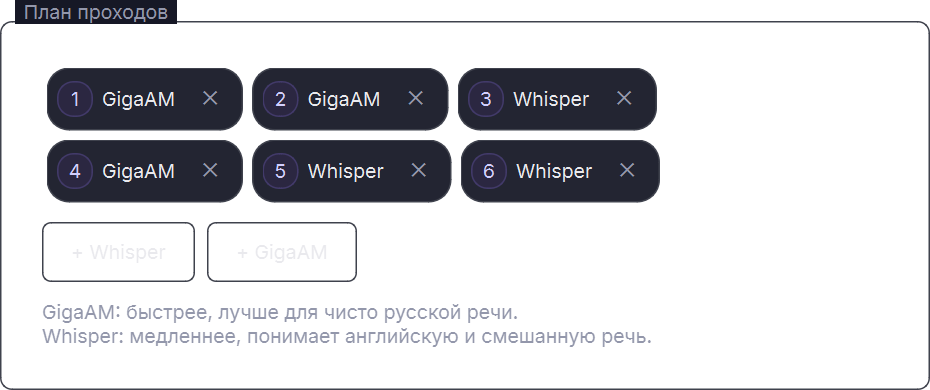
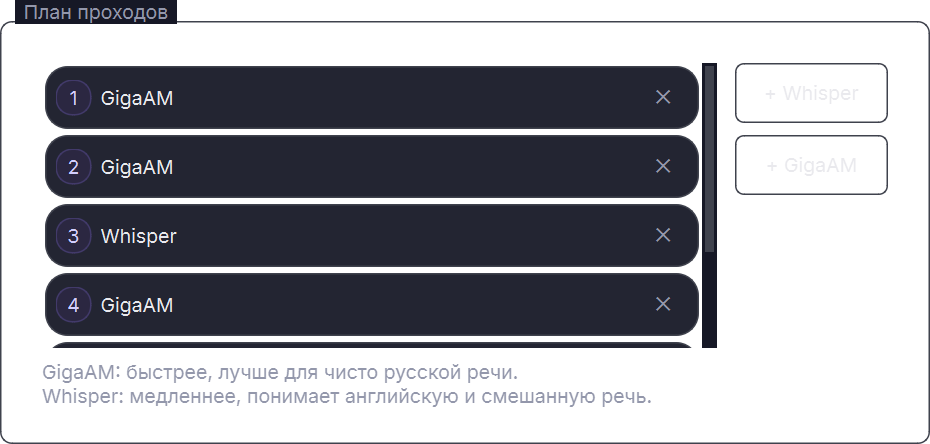
Plan passes as a vertical column; size model rows to their buttons
Pass rows are full-width chips stacked vertically (one per row, drag
to reorder, X at the right edge) with the add buttons in a column on
the right — scrolls past four rows. Models: Qt ignores cell-widget
heights when sizing rows, so rows are now sized explicitly to the
button height; all rows render fully.

diff --git a/wordmute_app/ui/plan_widget.py b/wordmute_app/ui/plan_widget.py
@@ -40,12 +40,13 @@ class _Chip(QFrame):
         self.setProperty("passChip", True)
         self.setToolTip(tr(ENGINE_TIPS[engine]))
         layout = QHBoxLayout(self)
-        layout.setContentsMargins(3, 3, 4, 3)
+        layout.setContentsMargins(3, 3, 6, 3)
         layout.setSpacing(6)
         badge = QLabel(str(number))
         badge.setProperty("stepNumber", True)
         layout.addWidget(badge)
         layout.addWidget(QLabel(ENGINE_LABELS[engine]))
+        layout.addStretch()  # full-row chip: ✕ sits at the right edge
         remove = QToolButton()
         remove.setProperty("chipRemove", True)
         remove.setText("✕")
@@ -68,21 +69,20 @@ class _ChipsList(QListWidget):
 
 class PassPlanWidget(QGroupBox):
     changed = Signal()
-    MAX_CHIP_ROWS = 3  # taller plans scroll vertically
+    MAX_VISIBLE_ROWS = 4  # taller plans scroll vertically
 
     def __init__(self, parent=None):
         super().__init__(tr("Pass plan"), parent)
         layout = QVBoxLayout(self)
         layout.setSpacing(8)
 
-        # chips take the full group width and wrap onto more lines;
-        # the + buttons sit on their own row below (design feedback)
+        # one pass per row (a vertical column, like the old plain list),
+        # add buttons in their own column on the right
+        row = QHBoxLayout()
+        row.setSpacing(12)
         self.chips = _ChipsList(self._update_height)
         self.chips.setObjectName("pass_chips")
-        self.chips.setFlow(QListView.LeftToRight)
-        self.chips.setWrapping(True)
-        self.chips.setResizeMode(QListView.Adjust)
-        self.chips.setSpacing(3)
+        self.chips.setSpacing(2)
         self.chips.setDragDropMode(QAbstractItemView.InternalMove)
         self.chips.setSelectionMode(QAbstractItemView.SingleSelection)
         self.chips.setHorizontalScrollBarPolicy(Qt.ScrollBarAlwaysOff)
@@ -93,20 +93,21 @@ class PassPlanWidget(QGroupBox):
         # from the items' data once the move settles
         self.chips.model().rowsMoved.connect(
             lambda *_: QTimer.singleShot(0, self._on_reordered))
-        layout.addWidget(self.chips)
+        row.addWidget(self.chips, stretch=1)
 
-        buttons_row = QHBoxLayout()
-        buttons_row.setSpacing(8)
+        buttons_col = QVBoxLayout()
+        buttons_col.setSpacing(8)
         self.add_whisper = QPushButton("+ Whisper")
         self.add_whisper.setToolTip(tr(ENGINE_TIPS["whisper"]))
         self.add_whisper.clicked.connect(lambda: self.add_pass("whisper"))
         self.add_gigaam = QPushButton("+ GigaAM")
         self.add_gigaam.setToolTip(tr(ENGINE_TIPS["gigaam"]))
         self.add_gigaam.clicked.connect(lambda: self.add_pass("gigaam"))
-        buttons_row.addWidget(self.add_whisper)
-        buttons_row.addWidget(self.add_gigaam)
-        buttons_row.addStretch()
-        layout.addLayout(buttons_row)
+        buttons_col.addWidget(self.add_whisper)
+        buttons_col.addWidget(self.add_gigaam)
+        buttons_col.addStretch()
+        row.addLayout(buttons_col)
+        layout.addLayout(row)
 
         note = QLabel(tr("GigaAM: faster, best for pure Russian.\n"
                          "Whisper: slower, handles English/mixed speech."))
@@ -165,24 +166,17 @@ class PassPlanWidget(QGroupBox):
             chip = _Chip(i + 1, engine,
                          lambda _=False, it=item: self.remove_pass(
                              self.chips.row(it)))
-            item.setSizeHint(chip.sizeHint() + QSize(4, 4))
+            # width comes from the list; only the height matters here
+            item.setSizeHint(QSize(24, chip.sizeHint().height() + 4))
             self.chips.setItemWidget(item, chip)
         self._update_height()
 
     def _update_height(self):
-        """Grow with wrapped chip rows, scroll beyond MAX_CHIP_ROWS."""
+        """Show every row up to MAX_VISIBLE_ROWS, then scroll."""
         spacing = self.chips.spacing()
-        width = max(self.chips.viewport().width(), 120)
         row_height = 40
-        x = 0
-        rows = 1
-        for i in range(self.chips.count()):
-            hint = self.chips.item(i).sizeHint()
-            row_height = max(row_height, hint.height() + spacing)
-            w = hint.width() + spacing
-            if x and x + w > width:
-                rows += 1
-                x = 0
-            x += w
-        visible = min(rows, self.MAX_CHIP_ROWS)
-        self.chips.setFixedHeight(visible * row_height + 2 * spacing + 2)
+        if self.chips.count():
+            row_height = (self.chips.item(0).sizeHint().height()
+                          + 2 * spacing)
+        visible = max(1, min(self.chips.count(), self.MAX_VISIBLE_ROWS))
+        self.chips.setFixedHeight(visible * row_height + 6)

diff --git a/wordmute_app/ui/models_tab.py b/wordmute_app/ui/models_tab.py
@@ -100,6 +100,7 @@ class ModelsTab(QWidget):
     def refresh(self):
         status = models.whisper_model_status()
         self.table.setRowCount(len(status))
+        row_height = 34
         for row, st in enumerate(status):
             model = st["model"]
             self.table.setItem(row, COL_MODEL, QTableWidgetItem(model))
@@ -121,15 +122,16 @@ class ModelsTab(QWidget):
                 lambda _=False, m=model, d=st["downloaded"]:
                 self._delete(m) if d else self._download(m))
             self.table.setCellWidget(row, COL_ACTION, button)
-        # natural height from the REAL row heights (the in-row buttons
-        # make rows taller than any fixed guess), capped with an inner
-        # scrollbar beyond that
-        self.table.resizeRowsToContents()
+            # Qt's row sizing ignores cell widgets: rows must be sized
+            # to the button height explicitly or the buttons clip
+            row_height = max(row_height, button.sizeHint().height() + 10)
+        self.table.verticalHeader().setDefaultSectionSize(row_height)
+        for row in range(self.table.rowCount()):
+            self.table.setRowHeight(row, row_height)
         header = self.table.horizontalHeader()
         total = (max(header.height(), header.sizeHint().height())
-                 + 2 * self.table.frameWidth() + 4
-                 + sum(self.table.rowHeight(r)
-                       for r in range(self.table.rowCount())))
+                 + 2 * self.table.frameWidth() + 6
+                 + row_height * self.table.rowCount())
         self.table.setFixedHeight(min(total, 420))
 
         caches = models.gigaam_cache_dirs()
